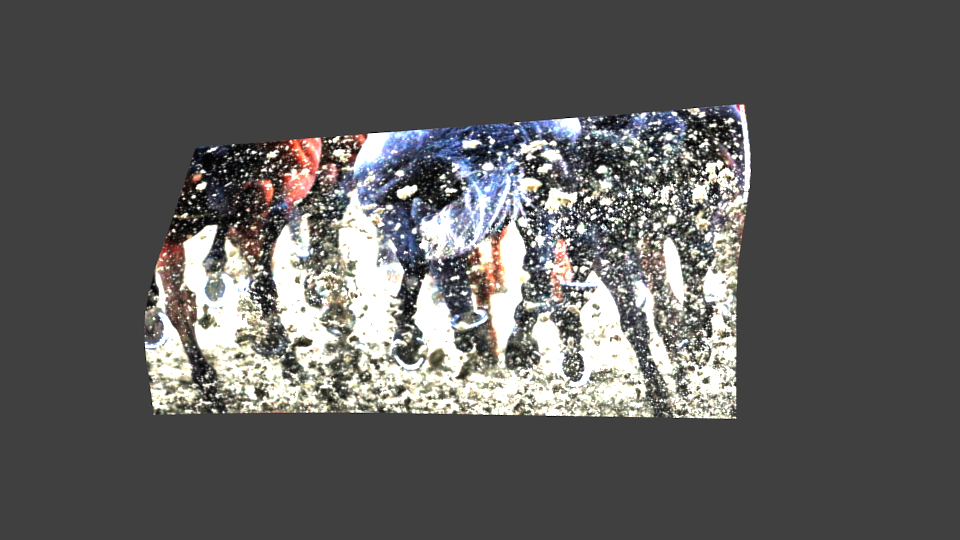
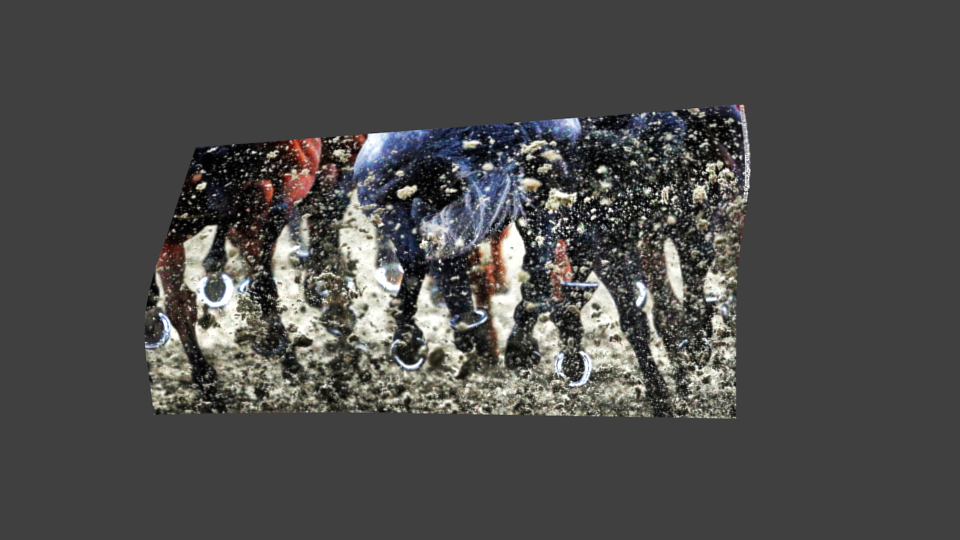
renderer class

Changed region(s): [[0.125, 0.1778, 0.7812, 0.8]]

diff --git a/src/rendering/blenderScripts/renderer.py b/src/rendering/blenderScripts/renderer.py
@@ -1,0 +1,231 @@
+#!/usr/bin/env python3
+# -*- coding: utf-8 -*-
+"""
+Created on Sun Sep 23 16:14:55 2018
+
+@author: Pamir Ghimire
+Renderer class
+"""
+import bpy
+import numpy as np
+
+
+class Renderer:
+    # constructor
+    def __init__(self):
+        print('Renderer object ')
+        # camera (contains background image)
+        self.mRendCamera = bpy.data.objects['Camera']
+        # lamp
+        self.mLamp = bpy.data.objects['Lamp']
+        # Bezier curve modifier
+        self.mBCurveModifier = []
+        # 3d object
+        self.m3dObj = []
+        # radius of imaging sphere
+        self.mRadiusCaptureSphere = -1
+        # path to 3d mesh
+        self.mPathTo3dObj = ''      
+        # bezier curve modifier
+        self.mCurveObjName = 'bCurveObject'
+        self.mCurveName = 'bCurve'
+        self.mBCurveObj = []
+        self.mBCurveModifierName = 'bCurveModifier'
+        #mCamera = Camera()
+        self.mRenderWidth = 1900
+        self.mRenderHeght = 1080
+
+    # import 3d mesh 
+    def f3dObjImport(self, path2Obj):
+        self.mPathTo3dObj = path2Obj
+        bpy.ops.import_scene.obj(filepath=self.mPathTo3dObj)
+        
+        obj3d = path2Obj.split('.')[0].split('/')[-1]
+        self.m3dObj = bpy.data.objects[obj3d]
+        objInContext = bpy.context.selected_objects[0]
+        print('Imported name: ', objInContext.name)
+        area = next(area for area in bpy.context.screen.areas if area.type == 'VIEW_3D')
+        space = next(space for space in area.spaces if space.type == 'VIEW_3D')
+        space.viewport_shade = 'TEXTURED'  # set the viewport shading 
+        bpy.context.scene.update()
+        
+    # set location of 3d obj. in the world
+    def f3dObjSetLocation_world(self, worldLocation):
+        self.m3dObj.location = worldLocation
+        bpy.context.scene.update()
+            
+    # set location of 3d obj. in the world
+    def f3dObjSetRotation_world(self, worldEulerAngle):
+        self.m3dObj.rotation_euler = worldEulerAngle
+        bpy.context.scene.update()
+    
+    # get centroid of the 3d obj member
+    def f3dObjGetCentroid(self):
+        my3dobj_com = Vector((0.0, 0.0, 0.0))
+        nVertices = len(self.m3dObj.data.vertices)
+        for vertex in self.m3dObj.data.vertices:
+            my3dobj_com = my3dobj_com + vertex.co
+        my3dobj_com /= nVertices
+        print('Center of mass of the loaded 3d oject = ', my3dobj_com)
+        return my3dobj_com
+        
+    # get min. x, y and z of the 3d obj member
+    def f3dObjGetMins(self):
+        minx = float('inf')
+        miny = float('inf')
+        minz = float('inf')
+        for vertex in self.m3dObj.data.vertices:
+            if vertex[0] < minx:
+                minx = vertex[0]
+            if vertex[1] < miny:
+                miny = vertex[1]
+            if vertex[2] < minz:
+                minz = vertex[2]
+            
+        mins = Vector((minx, miny, minz))
+        return mins
+    
+    # get max. x, y and z of the 3d obj member
+    def f3dObjGetMaxs(self):
+        maxx = -float('inf')
+        maxy = -float('inf')
+        maxz = -float('inf')
+        for vertex in self.m3dObj.data.vertices:
+            if vertex[0] > maxx:
+                maxx = vertex[0]
+            if vertex[1] > maxy:
+                maxy = vertex[1]
+            if vertex[2] > maxz:
+                maxz = vertex[2]
+            
+        maxs = Vector((maxx, maxy, maxz))
+        return maxs
+    
+    # set a bezier curve modifier for the 3d mesh by specifying control points
+    def fBezierCurveSet(self, cList, origin=(0,0,0)):  
+        curvedata = bpy.data.curves.new(name=self.mCurveName, type='CURVE')    
+        curvedata.dimensions = '2D'    
+        curvedata.use_radius = False
+        
+        objectdata = bpy.data.objects.new(self.mCurveObjName, curvedata)    
+        objectdata.location = origin
+        
+        bpy.context.scene.objects.link(objectdata)    
+        
+        polyline = curvedata.splines.new('BEZIER')    
+        polyline.bezier_points.add(len(cList)-1)    
+    
+        for idx, (knot, h1, h2) in enumerate(cList):
+            point = polyline.bezier_points[idx]
+            point.co = knot
+            point.handle_left = h1
+            point.handle_right = h2
+            point.handle_left_type = 'ALIGNED'
+            point.handle_right_type = 'ALIGNED'
+    
+        polyline.use_cyclic_u = False 
+        self.mBCurveObj = bpy.data.objects[self.mCurveObjName]
+        # set pose of the added curve
+        self.mBCurveObj.location = self.m3dObj.location
+        self.mBCurveObj.rotation_euler = Vector((0, np.pi/2, -np.pi/2))
+        # add the bCurve as a curve modifier to the 3d obj
+        self.m3dObj.modifiers.new(name=self.mBCurveModifierName, type='CURVE')
+        self.m3dObj.modifiers[self.mBCurveModifierName].object = self.mBCurveObj
+        # move the 3d object a little bit along the curve's major axis
+        self.m3dObj.location = self.m3dObj.location + Vector((0, 0, -5))
+        bpy.context.scene.update()
+
+    # add to rotation of the bcurve modifier about the world x axis    
+    def fBezierCurveRotateDeltaX(self, degrees):
+        self.m3dObj.modifiers[self.mBCurveModifierName].object.rotation_euler.y +=  degrees * np.pi/180.0
+        bpy.context.scene.update()
+         
+    # set rotation of the bcurve modifier about the world x axis    
+    def fBezierCurveSetRotationX(self, degrees):
+        self.m3dObj.modifiers[self.mBCurveModifierName].object.rotation_euler.y =  degrees * np.pi/180.0
+        bpy.context.scene.update()
+        
+    # set position of the 3d obj along the major axis of the b curve modifier
+    def f3dObjPositionAlongCurve(self, positionZ = -5.0):
+        self.m3dObj.location = self.m3dObj.modifiers[self.mBCurveModifierName].object.location + Vector((0, 0, positionZ))
+        bpy.context.scene.update()
+        
+    # randomly position the 3d obj along the major axis of the b curve modifier
+    def f3dObjRandPositionAlongCurve(self, minz=-8.0, maxz=3.0):
+        rangez = maxz - minz
+        randz = np.random.rand() * rangez + minz
+        self.m3dObj.location = self.m3dObj.modifiers[self.mBCurveModifierName].object.location + Vector((0, 0, randz))
+        bpy.context.scene.update()    
+        
+    # create a render using the render cam
+    def fRendCamRender(self, pathToRender, width, height):
+        bpy.data.scenes['Scene'].render.filepath = pathToRender
+        bpy.data.scenes['Scene'].render.resolution_x = self.mRenderWidth
+        bpy.data.scenes['Scene'].render.resolution_x = self.mRenderHeght
+        bpy.ops.render.render( write_still=True )
+        
+    # change render camera's location in 3d object frame
+    def fRenderCamSetLocation3dObj(self, locationInCam):
+        locationInWorld = self.m3dObj.matrix_world * locationInCam
+        self.mRendCamera.location = locationInWorld
+        bpy.context.scene.update()
+        
+    # change render camera's look direction in 3d object frame
+    def fRenderCamSetLookVector(self, lookVector):
+        direction = self.m3dObj.matrix_world * lookVector
+        # point the cameras '-Z' and use its 'Y' as up
+        rot_quat = direction.to_track_quat('-Z', 'Y')
+        # assume we're using euler rotation
+        self.mRendCamera.rotation_euler = rot_quat.to_euler()
+        bpy.context.scene.update()
+
+#----------------------------------------------------------------------------
+# imports
+import bpy
+import mathutils
+import numpy as np
+
+# create a renderer object
+myrend = Renderer()
+
+# setup lights in the environment : currently in blender startup file
+# camera intrinsics : 35 mm focal length, 32 mm sensor size, image resolution
+
+# import 3d object
+objFilePath = '/home/ghimire/Desktop/sft_dl_3dc/data/3dObjs/horses.obj'
+myrend.f3dObjImport(objFilePath)
+
+# place it at a pre-determined pose
+myrend.f3dObjSetLocation_world((0, 0, 0))
+#myrend.fSet3dObjRotation_world((0, 0, 0))
+
+# add a bezier curve modifier to the scene with pre-chosen configurations
+x= 5
+coordinates = [
+    ((-x, 0, 0), (-(x+5), -5, 0), ( (x-5), 5, 0)),
+    ((x, 0, 0), (0, 0, 0), ((x+5), 0, 0))]
+
+# add a curve modifier to the object
+myrend.fBezierCurveSet(coordinates)
+
+# for n. of desired renders 
+    # change rotation of the curve modifier
+    # move the camera to a random pose wrt the object
+    # save the render
+
+r = 100000
+alpha = (np.random.rand()*360 - 180) * np.pi/180.0
+theta = (np.random.rand()*180 - 90) * np.pi/180.0
+x = r*np.cos(theta)*cos(alpha)
+y = r*np.cos(theta)*np.sin(alpha)
+z = r*sin(theta) 
+
+x =np.random.rand()*100
+y = np.random.rand()*100
+z = np.random.rand()*100
+
+myrend.fRenderCamSetLocation3dObj(Vector((x, y, z)) )
+lookVector = myrend.f3dObjGetCentroid() - myrend.mRendCamera.location
+myrend.fRenderCamSetLookVector(lookVector)
+
+

diff --git a/src/rendering/blenderScripts/prospecting.py b/src/rendering/blenderScripts/prospecting.py
@@ -88,6 +88,8 @@ bpy.context.scene.update()
 
 # position the lamp X units from object's origin along it's x direction
 bpy.data.objects['Lamp'].location = mycam.matrix_world * Vector((0.0, 0.0, 0.0))
+# set lamp's energy
+bpy.data.lamps['Lamp'].energy = 1.0
 bpy.context.scene.update()
 
 #
@@ -156,7 +158,7 @@ myBCurveObj.rotation_euler = Vector((0, np.pi/2, -np.pi/2))
 my3dobj.modifiers.new(name='myBCurveModifier', type='CURVE')
 my3dobj.modifiers['myBCurveModifier'].object = myBCurveObj
 
-# move the 3d object a little bit along the 
+# move the 3d object a little bit along the curve's major axis
 my3dobj.location = my3dobj.location + Vector((0, 0, -5))
 bpy.context.scene.update()
 
@@ -170,7 +172,9 @@ bpy.context.scene.update()
 # 7 save renders
 #-------------
 renderFilePath = '/home/ghimire/Desktop/sft_dl_3dc/data/training_defRenders/testRender.jpg'
-bpy.data.scenes["Scene"].render.filepath = renderFilePath
+bpy.data.scenes['Scene'].render.filepath = renderFilePath
+bpy.data.scenes['Scene'].render.resolution_x = 1920
+bpy.data.scenes['Scene'].render.resolution_x = 1080
 bpy.ops.render.render( write_still=True )
 
 

diff --git a/src/rendering/blenderScripts/main_datagenPipeline.py b/src/rendering/blenderScripts/main_datagenPipeline.py
@@ -6,10 +6,19 @@ Bezier Curve modifier, and assigning it random poses in the camera space
 -Pamir Ghimire, Spetember 16, 2018
 """
 # blender imports
-# setup lights in the environment
-# setup camera intrinsics
+import bpy
+from renderer import Renderer
+
+# create a renderer object
+myrend = Renderer()
+
+# setup lights in the environment : currently in blender startup file
+# camera intrinsics : 35 mm focal length, 32 mm sensor size, image resolution
 
 # import 3d object
+objFilePath = '/home/ghimire/Desktop/sft_dl_3dc/data/3dObjs/horses.obj'
+myrend.fImport3dObj(objFilePath)
+
 # place it at a pre-determined pose
 # add a bezier curve modifier to the scene with pre-chosen configurations
 # add a curve modifier to the object

diff --git a/src/rendering/blenderScripts/camera.py b/src/rendering/blenderScripts/camera.py
@@ -1,0 +1,13 @@
+#!/usr/bin/env python3
+# -*- coding: utf-8 -*-
+"""
+Created on Sun Sep 23 16:46:01 2018
+
+@author: ghimire
+Camera class
+Lets you control intrinsic parameters of the rendering camera
+"""
+class Camera:
+    def __init__(self):
+        print("camera class")
+

diff --git a/src/rendering/blenderScripts/blenderExecfile.py b/src/rendering/blenderScripts/blenderExecfile.py
@@ -1,2 +1,2 @@
-filename = '/home/ghimire/Desktop/sft_dl_3dc/src/rendering/blenderScripts/prospecting.py'
+filename = '/home/ghimire/Desktop/sft_dl_3dc/src/rendering/blenderScripts/renderer.py'
 exec(open(filename).read())
